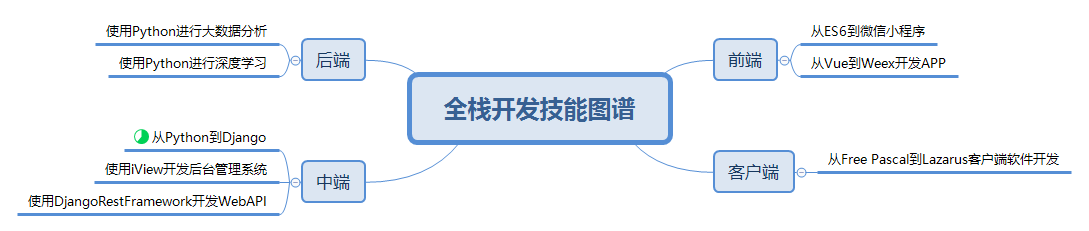
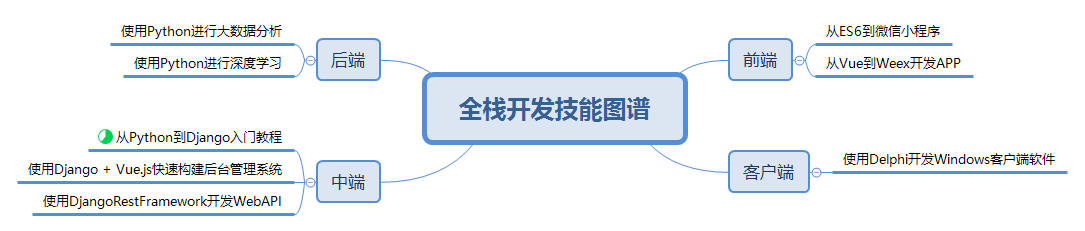
从实践中反馈，修改了全栈技术

diff --git a/index.html b/index.html
@@ -45,8 +45,8 @@
         <div class="col-xs-6 col-md-4">
           <div class="thumbnail">
             <div class="caption">
-              <h2>从ES6到微信小程序入门教程</h2>
-            <p>本教程整理了ES6和微信小程序的入门文档，从零开始讲解Javascript（ES6版本的新特性），专门针对微信小程序开发。<br></p>
+              <h2>使用Django + Vue.js快速构建后台管理系统</h2>
+            <p>本教程通过一个实例，采用Django、Vue.js开发了一个后台管理系统，采用element-ui作为前端展示框架。<br></p>
               <p><a class="btn btn-lg btn-primary" href="#">即将推出</a></p>
             </div>
           </div>
